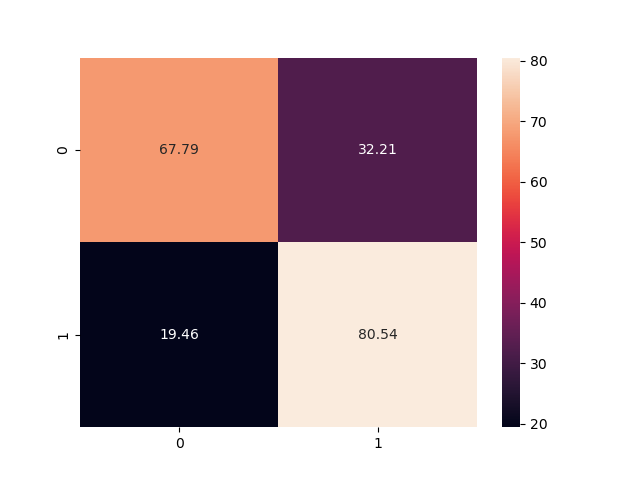
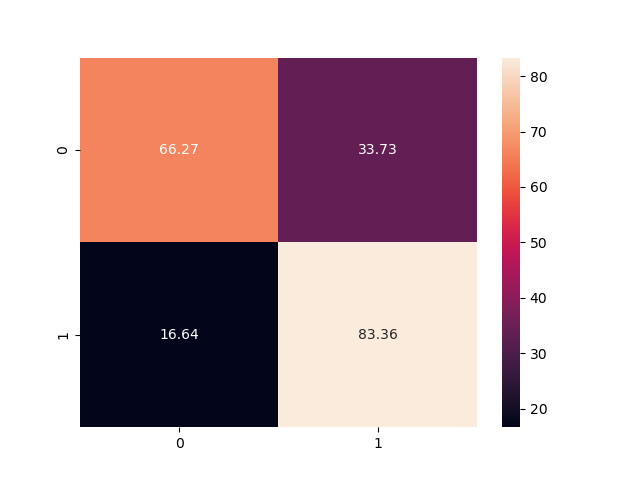
salva o modelo como um dicionário

diff --git a/train.py b/train.py
@@ -137,7 +137,15 @@ for epoch in epoch_bar:
     val_acc,matrix = accuracy(model,val_data,save=True)
     if val_acc > best_acc:
         best_acc = val_acc
-        torch.save(model.state_dict(),f'best_{args.model}.pt')
+        dict_save = {
+            "model_name":args.model,
+            "model":model.state_dict(),
+            "opt":opt.state_dict(),
+            "epochs":args.epochs,
+            "acc":best_acc,
+            "matrix":matrix
+        }
+        torch.save(dict_save,f'best_{args.model}.pt')
         heatmap(matrix,fmt='.2f',annot=True)
         plt.savefig(f'confusion_matrix_{args.model}.png')
         plt.close()
